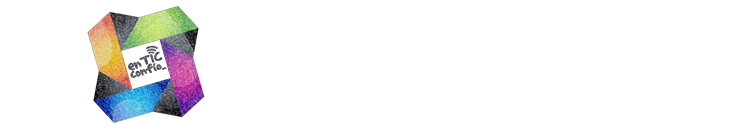
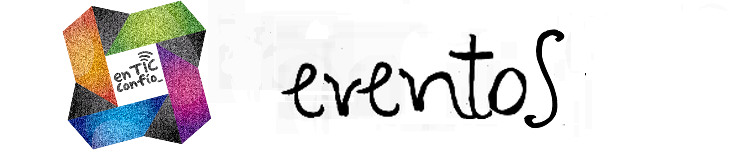
Share on Twitter and "Eventos"

Changed region(s): [[0.0613, 0.0, 0.3067, 0.9481], [0.368, 0.1778, 0.7667, 0.8296]]

diff --git a/www/twitter.html b/www/twitter.html
@@ -71,21 +71,22 @@
               .replace(/ú/i,"u")*/
 
               
-              alert(titleShare);
+              //alert(titleShare);
               titleShare = normalize(titleShare);
-              alert(titleShare);
+              //alert(titleShare);
 
               $.shortenUrl.settings.login = 'lucerovivas';
               $.shortenUrl.settings.apiKey = 'R_0a0addcbacd168955736558c10834fd1';
 
-              alert(urlShare);
+              //alert(urlShare);
               urlShare = normalize(urlShare);
-              alert(urlShare);
+              //alert(urlShare);
 
               $.shortenUrl(urlShare, function(short_url) {
                 // do whatever you want with the shortened url here                
-                window.open('https://twitter.com/share?url='+short_url+'&screen_name=enticconfio&text='+titleShare, '_blank');
+                window.open('https://twitter.com/share?url='+short_url+'&screen_name=enticconfio&text='+titleShare, '_system');
               });
+              //_blank
               
               //window.open('https://twitter.com/share?url='+urlShare+'&screen_name=enticconfio&text='+titleShare, '_system');
     			  });

diff --git a/www/eventos.html b/www/eventos.html
@@ -68,7 +68,7 @@ $(function(){
         </div>
         <div data-role="content">
             <div>
-                <img src="img/Conductas/Eventos.png"
+                <img src="img/Conductas/eventos.png"
                      style="width:100%; border-radius:10px; box-shadow:10px 10px 5px #888888;"/>
     
                 <p
@@ -76,7 +76,7 @@ $(function(){
                                 text-align:justify;border:4px dashed #F90; 
                                 padding: 15px; 
                                 border-radius:10px; box-shadow:10px 10px 5px #999; background-color:rgba(255,204,0,.5);">
-                    EVENTOS, EVENTOS, EVENTOS....
+                    Consulta aquí los principales eventos En TIC Confío.
                 </p>
                 
                 <div data-role="collapsible-set" id="newsPornigrafia" data-theme="a">

diff --git a/www/js/en_tic_confio_logic.js b/www/js/en_tic_confio_logic.js
@@ -54,7 +54,6 @@ twitterGo = function(url,title){
 eventosGo = function(itemIndex){
 	sessionStorage.setItem("EventoIndex",itemIndex);
 	window.location = "eventos.html";
-
 }
 
  generateItem = function(itemd,collapsible){
